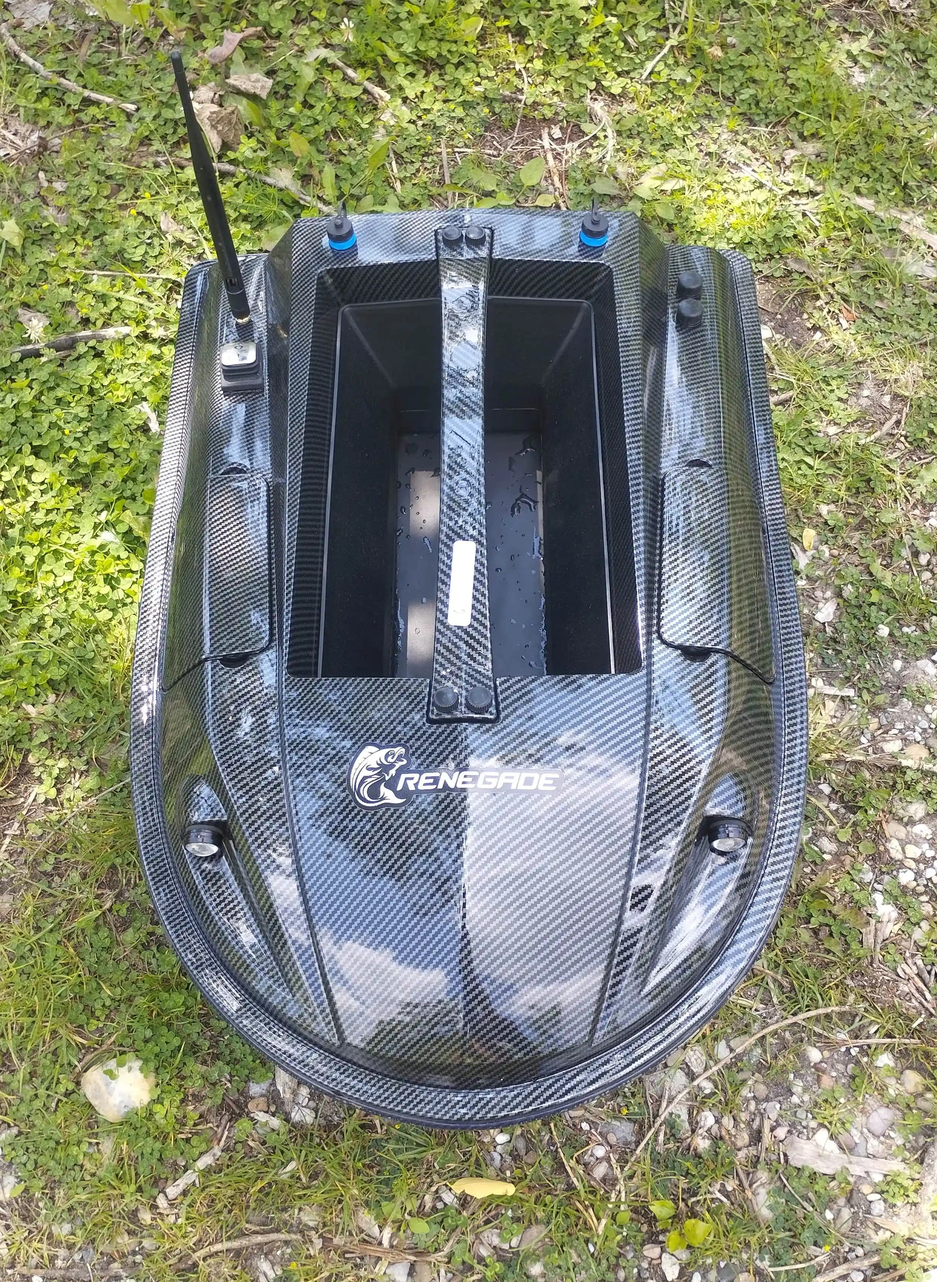
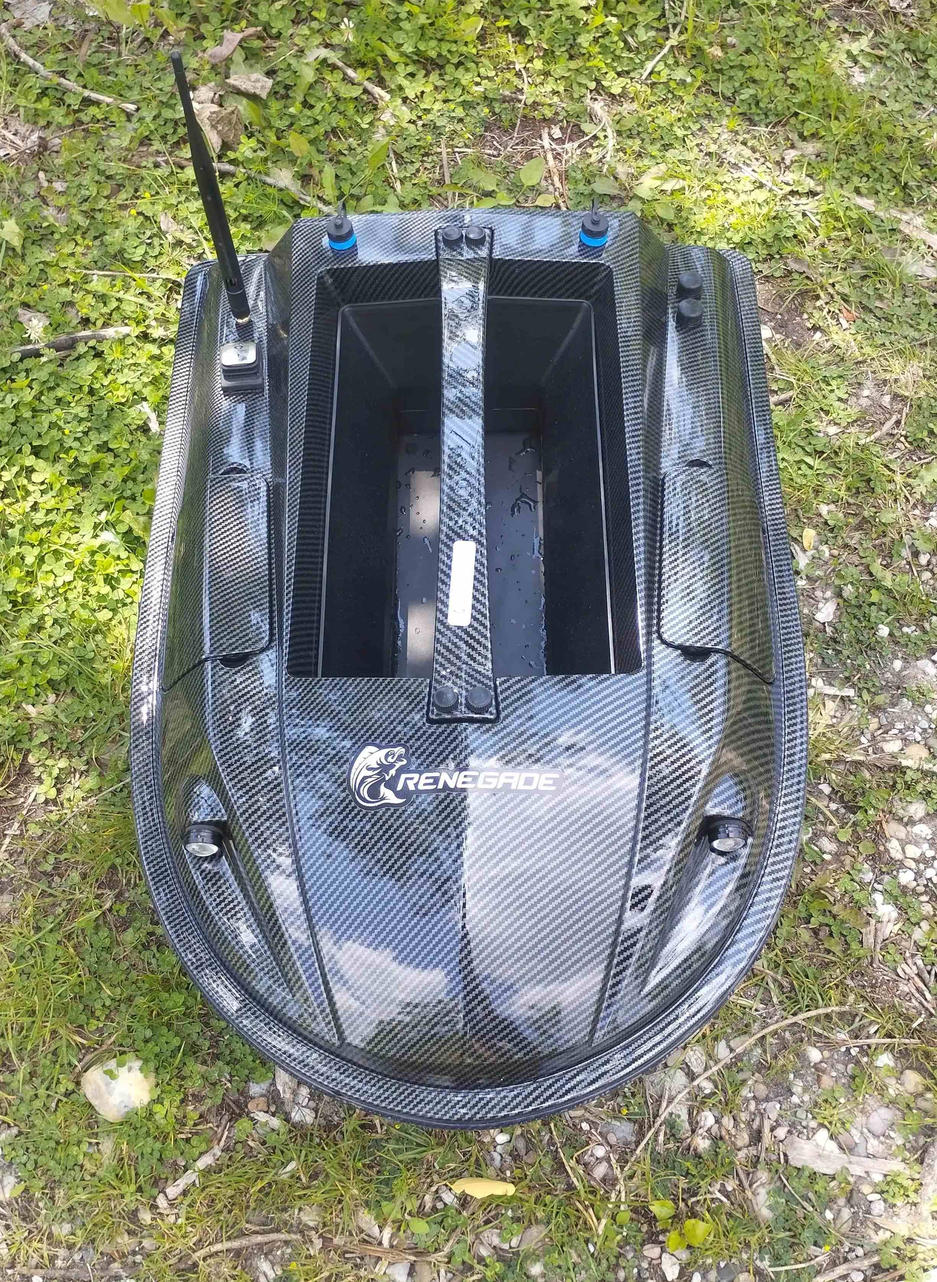
joo

diff --git a/renegade/index.html b/renegade/index.html
@@ -88,7 +88,7 @@
 
         <div class="mySlides fade">
           <img
-            src="../resources/images/renegade/from_side.webp"
+            src="../resources/images/renegade/from_side.jpg"
             style="width: 100%"
           />
         </div>
@@ -109,7 +109,7 @@
 
         <div class="mySlides fade">
           <img
-            src="../resources/images/renegade/back_top.webp"
+            src="../resources/images/renegade/back_top.jpg"
             style="width: 100%"
           />
         </div>
@@ -179,7 +179,7 @@
 
       <section class="image-sec">
         <img
-          src="../resources/images/renegade/ren_viz_axo.webp"
+          src="../resources/images/renegade/ren_viz_axo.jpg"
           alt="renegade"
           loading="lazy"
           class="ren-image"
@@ -261,7 +261,7 @@
 
       <section class="image-sec">
         <img
-          src="../resources/images/renegade/from_back_axo.webp"
+          src="../resources/images/renegade/from_back_axo.jpg"
           alt="renegade"
           loading="lazy"
           class="ren-image"
@@ -288,7 +288,7 @@
 
       <section class="image-sec">
         <img
-          src="../resources/images/renegade/from_side.webp"
+          src="../resources/images/renegade/from_side.jpg"
           alt="renegade"
           loading="lazy"
           class="ren-image"
